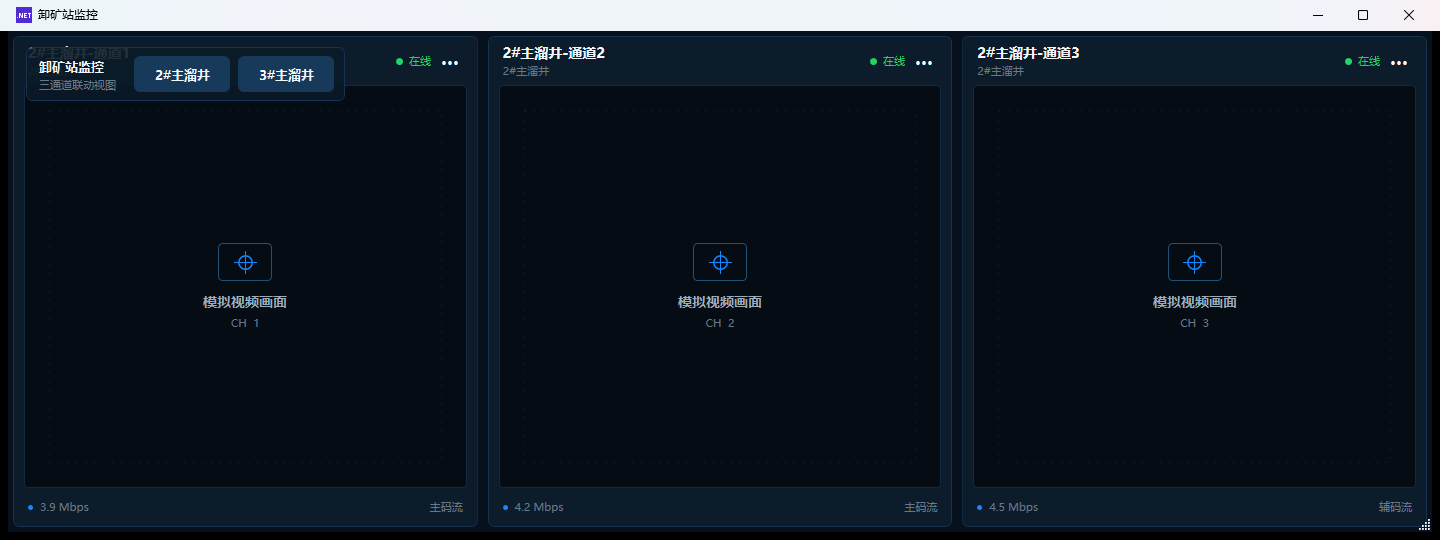
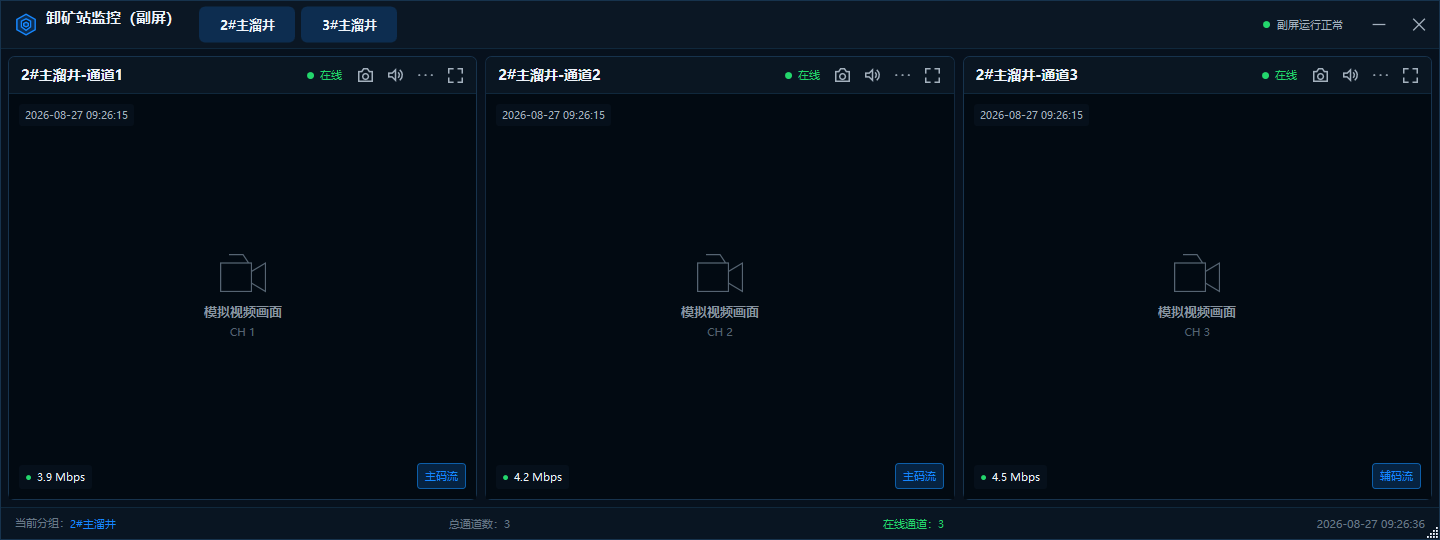
test: capture WPF high fidelity visual QA

diff --git a/src/VideoMonitor.Wpf/MainWindow.xaml b/src/VideoMonitor.Wpf/MainWindow.xaml
@@ -68,7 +68,8 @@
                             <TextBlock Foreground="{StaticResource MutedTextBrush}" FontSize="12" Text="当前站点:" />
                             <TextBlock Margin="7,0,0,0" FontWeight="SemiBold" Text="卸矿站" />
                         </StackPanel>
-                        <Button Command="{Binding ToggleFullscreenCommand}" ToolTip="全屏" Style="{StaticResource HeaderToolButtonStyle}"
+                        <Button AutomationProperties.AutomationId="MonitorFullscreenButton" AutomationProperties.Name="全屏"
+                                Command="{Binding ToggleFullscreenCommand}" ToolTip="全屏" Style="{StaticResource HeaderToolButtonStyle}"
                                 shell:WindowChrome.IsHitTestVisibleInChrome="True">
                             <StackPanel><Path Width="17" Height="17" Data="{StaticResource IconFullscreen}" Stroke="{Binding Foreground, RelativeSource={RelativeSource AncestorType=Button}}" StrokeThickness="1.5" Stretch="Uniform"/><TextBlock Margin="0,2,0,0" FontSize="10" Text="全屏"/></StackPanel>
                         </Button>

diff --git a/src/VideoMonitor.Wpf/Services/ScreenService.cs b/src/VideoMonitor.Wpf/Services/ScreenService.cs
@@ -16,11 +16,10 @@ public sealed class ScreenService
         var dpi = VisualTreeHelper.GetDpi(window);
 
         window.WindowStartupLocation = WindowStartupLocation.Manual;
-        window.Left = primary.Left / dpi.DpiScaleX + 32;
-        window.Top = primary.Top / dpi.DpiScaleY + 24;
-        window.Width = Math.Min(1600, primary.Width / dpi.DpiScaleX - 64);
-        window.Height = Math.Min(920, primary.Height / dpi.DpiScaleY - 48);
-        window.WindowState = WindowState.Maximized;
+        window.Left = primary.Left / dpi.DpiScaleX;
+        window.Top = primary.Top / dpi.DpiScaleY;
+        window.Width = primary.Width / dpi.DpiScaleX;
+        window.Height = primary.Height / dpi.DpiScaleY;
     }
 
     public void PlaceSecondaryWindow(WpfWindow window)

diff --git a/design-qa.md b/design-qa.md
@@ -1,0 +1,53 @@
+# UI High-Fidelity Design QA
+
+- source visual truth path: `C:\Users\Wan\AppData\Local\Temp\codex-clipboard-a2357979-1d20-40a8-b6c1-c4d289e2d8f9.png`
+- implementation screenshot path: `D:\Work\VideoMonitor\.worktrees\wpf-video-monitor-ui\artifacts\screenshots\wpf-video-monitor.png`
+- secondary screenshot path: `D:\Work\VideoMonitor\.worktrees\wpf-video-monitor-ui\artifacts\screenshots\wpf-secondary-monitor.png`
+- viewport: main window uses primary working area, captured at 1920×1032; secondary window 1440×540
+- source pixels: 1672×941; implementation pixels: 1920×1032; secondary pixels: 1440×540
+- density normalization: full comparison scales both main captures to 960×540 panels; focused comparisons normalize matching vertical regions to equal panel sizes
+- state: default 备用1 + Z-1#巷 + 2#主溜井, detail panel expanded, dark theme
+
+## Evidence
+
+- full view: `artifacts/screenshots/qa-full-comparison.png`
+- chrome/tree focus: `artifacts/screenshots/qa-focus-chrome-tree.png`
+- detail/status focus: `artifacts/screenshots/qa-focus-detail-status.png`
+- focused regions were required because the title-bar controls, tree hierarchy, detail typography, and 36px status bar are too small for reliable inspection in the full-view comparison.
+
+## Required fidelity surfaces
+
+- Fonts and typography: Microsoft YaHei UI, 11–17px hierarchy, semibold video titles, compact auxiliary text. No clipping or unintended wrapping observed at 1920×1032.
+- Spacing and layout rhythm: 56px title bar, 200px navigation, 300px tree, fixed 2×2 video grid, 132px detail panel, and 36px status bar match the requested density. Secondary remains one row, three equal columns, total height 540px.
+- Colors and tokens: all visible WPF surfaces use the centralized requested palette; no page-local hex colors remain.
+- Image quality and asset fidelity: this phase intentionally retains mock video placeholders and does not integrate real streams. All UI icons are centralized WPF Geometry/Path resources rather than Unicode glyphs.
+- Copy and content: required station, group, channel, status, detail, and system-metric labels are present. Mock values are clearly presentation-only.
+
+## Comparison history
+
+### Iteration 1 — blocked
+
+- P1: native white Windows title bar and disconnected internal header.
+- P1: VideoTile used a 48px header and separate 38px footer, reducing the video area.
+- P1: detail panel and complete system status bar were missing.
+- P2: navigation/tree hierarchy was visually flat and used Unicode character icons.
+- Fixes: added WindowChrome, strict palette/density tokens, Geometry icons, compact overlay-based VideoTile, selected tree rows/search/status, collapsible detail panel, complete status bars, and custom secondary chrome.
+
+### Iteration 2 — passed
+
+- Post-fix evidence: the full comparison shows matching industrial dark hierarchy and dominant video area; focused comparisons confirm integrated chrome, compact typography, right-tree density, detail panel, and bottom status rhythm.
+- No actionable P0/P1/P2 differences remain within this mock-UI-only phase.
+
+## Follow-up polish (P3, acceptance-dependent)
+
+- Target uses real mine imagery and mixed error/offline states; implementation intentionally keeps neutral mock video placeholders and existing all-online fake data.
+- Target contains a richer left-side monitor-group mini tree and more toolbar actions; implementation keeps the explicitly requested navigation/favorites scope and avoids adding new behavior.
+- Detail panel omits target-only thumbnail, vendor, codec, account, and storage tabs because the requested minimum fields are already present and this phase forbids feature expansion.
+
+## Interaction verification
+
+- Custom title-bar minimize/maximize/close controls render and remain hit-testable.
+- Main four-view fullscreen changes the window from 1920×1032 to 1920×1080; Esc restores 1920×1032.
+- Secondary remains 1440×540 in the single-monitor development setup, with a single three-column row.
+
+final result: passed
